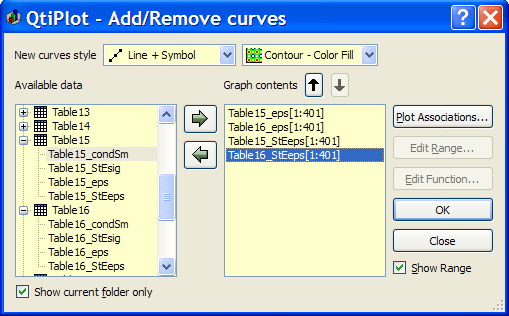
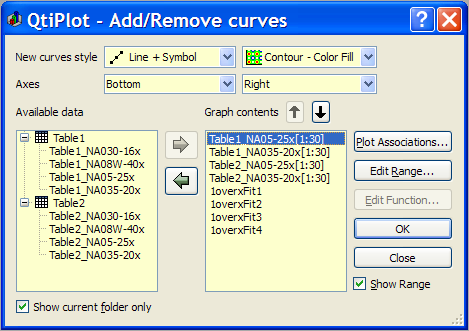
Added the possibility to specify the axes for the new curves in the "Add/Remove curves..." dialog.

diff --git a/trunk/qtiplot/src/plot2D/dialogs/CurvesDialog.cpp b/trunk/qtiplot/src/plot2D/dialogs/CurvesDialog.cpp
@@ -28,6 +28,7 @@
  ***************************************************************************/
 #include "CurvesDialog.h"
 #include "QwtHistogram.h"
+#include "Spectrogram.h"
 #include <Graph.h>
 #include <Table.h>
 #include <Matrix.h>
@@ -60,9 +61,9 @@ CurvesDialog::CurvesDialog( QWidget* parent, Qt::WFlags fl )
     setSizeGripEnabled(true);
 	setFocus();
 
-    QHBoxLayout *hl = new QHBoxLayout();
+	QGridLayout *hl = new QGridLayout();
 
-	hl->addWidget(new QLabel(tr("New curves style")));
+	hl->addWidget(new QLabel(tr("New curves style")), 0, 0);
 	boxStyle = new QComboBox();
 	boxStyle->addItem( QPixmap(":/lPlot.png"), tr( " Line" ) );
 	boxStyle->addItem( QPixmap(":/pPlot.png"), tr( " Scatter" ) );
@@ -75,15 +76,26 @@ CurvesDialog::CurvesDialog( QWidget* parent, Qt::WFlags fl )
 	boxStyle->addItem( QPixmap(":/vertBars.png"), tr( " Vertical Bars" ) );
 	boxStyle->addItem( QPixmap(":/hBars.png"), tr( " Horizontal Bars" ) );
 	boxStyle->addItem( QPixmap(":/histogram.png"), tr( " Histogram" ) );
-    hl->addWidget(boxStyle);
+	hl->addWidget(boxStyle, 0, 1);
 
     boxMatrixStyle = new QComboBox();
 	boxMatrixStyle->addItem( QPixmap(":/color_map.png"), tr("Contour - Color Fill"));
 	boxMatrixStyle->addItem( QPixmap(":/contour_map.png"), tr("Contour Lines"));
 	boxMatrixStyle->addItem( QPixmap(":/gray_map.png"), tr("Gray Scale Map"));
 	boxMatrixStyle->addItem( QPixmap(":/histogram.png"), tr("Histogram"));
-    hl->addWidget(boxMatrixStyle);
-    hl->addStretch();
+	hl->addWidget(boxMatrixStyle, 0, 2);
+	hl->setColumnStretch(3, 1);
+
+	hl->addWidget(new QLabel(tr("Axes")), 1, 0);
+	boxXAxis = new QComboBox();
+	boxXAxis->addItem(tr("Bottom"));
+	boxXAxis->addItem(tr("Top"));
+	hl->addWidget(boxXAxis, 1, 1);
+
+	boxYAxis = new QComboBox();
+	boxYAxis->addItem(tr("Left"));
+	boxYAxis->addItem(tr("Right"));
+	hl->addWidget(boxYAxis, 1, 2);
 
     QGridLayout *gl = new QGridLayout();
     gl->addWidget(new QLabel( tr( "Available data" )), 0, 0);
@@ -386,20 +398,24 @@ bool CurvesDialog::addCurve(const QString& name)
         if (!m)
             return false;
 
+		QwtPlotItem* it = NULL;
         switch (boxMatrixStyle->currentIndex()){
             case 0:
-                d_graph->plotSpectrogram(m, Graph::ColorMap);
+				it = d_graph->plotSpectrogram(m, Graph::ColorMap);
             break;
             case 1:
-                d_graph->plotSpectrogram(m, Graph::Contour);
+				it = d_graph->plotSpectrogram(m, Graph::Contour);
             break;
             case 2:
-                d_graph->plotSpectrogram(m, Graph::GrayScale);
+				it = d_graph->plotSpectrogram(m, Graph::GrayScale);
             break;
 			case 3:
-                d_graph->addHistogram(m);
+				it = d_graph->addHistogram(m);
             break;
         }
+
+		if (it)
+			it->setAxis(boxXAxis->currentIndex() + 2, boxYAxis->currentIndex());
 
         contents->addItem(name);
 		return true;
@@ -423,6 +439,8 @@ bool CurvesDialog::addCurve(const QString& name)
 
 	if (!c)
 		return false;
+
+	c->setAxis(boxXAxis->currentIndex() + 2, boxYAxis->currentIndex());
 
 	CurveLayout cl = Graph::initCurveLayout();
 	int cIndex, sIndex;

diff --git a/trunk/qtiplot/src/plot2D/dialogs/CurvesDialog.h b/trunk/qtiplot/src/plot2D/dialogs/CurvesDialog.h
@@ -94,6 +94,8 @@ private:
 	QCheckBox* boxShowCurrentFolder;
 	QPushButton* btnUp;
 	QPushButton* btnDown;
+	QComboBox* boxXAxis;
+	QComboBox* boxYAxis;
 };
 
 /*****************************************************************************
